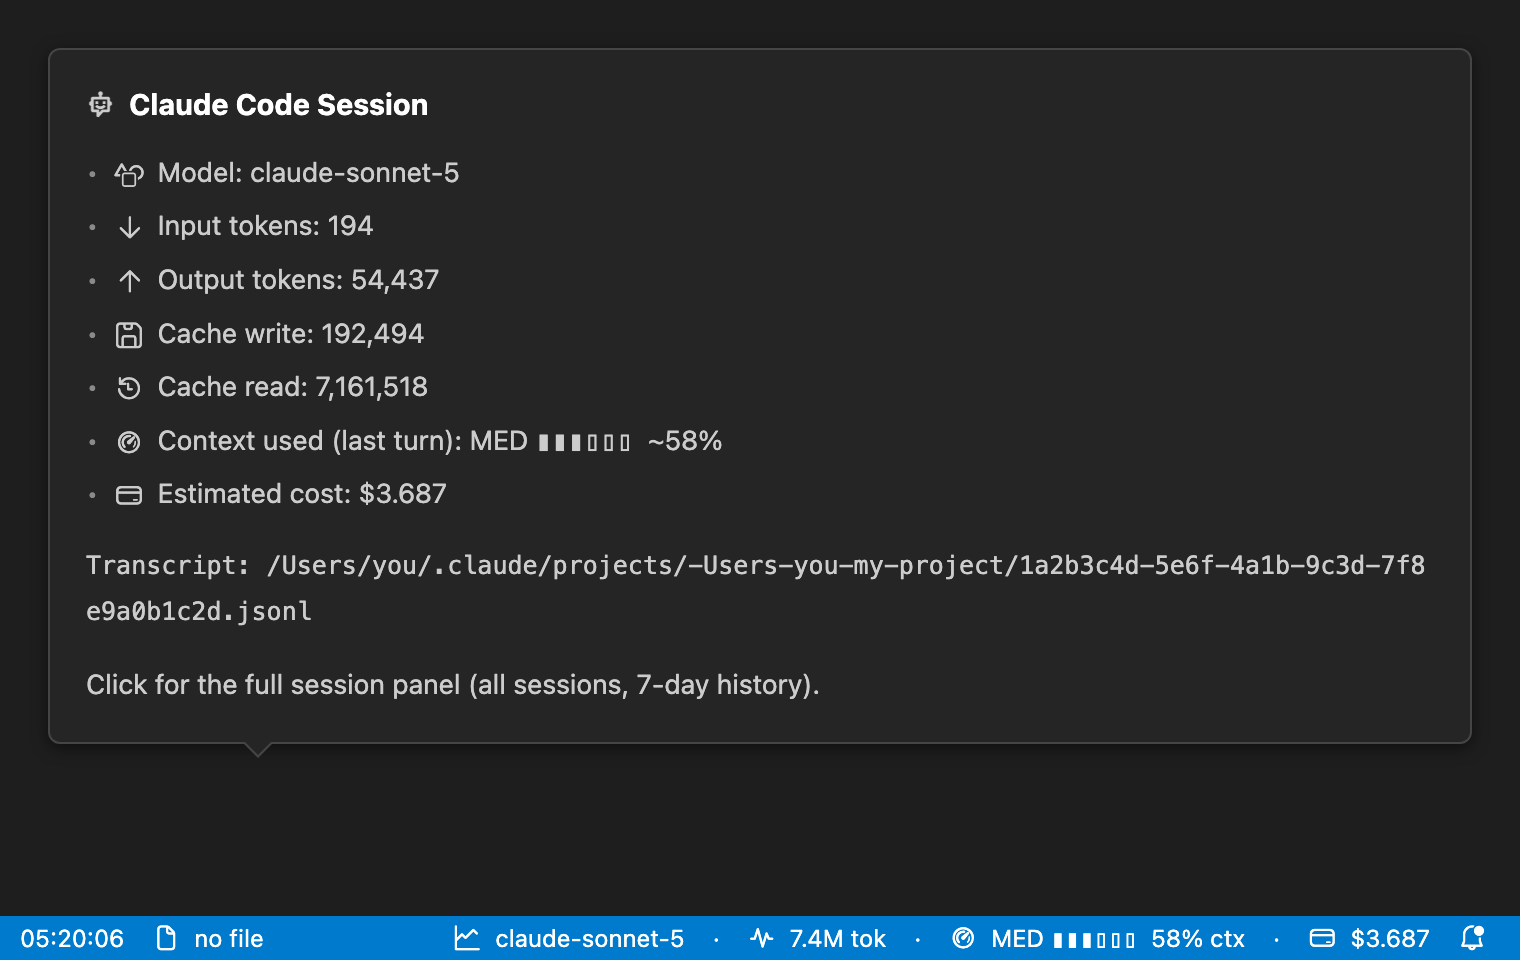
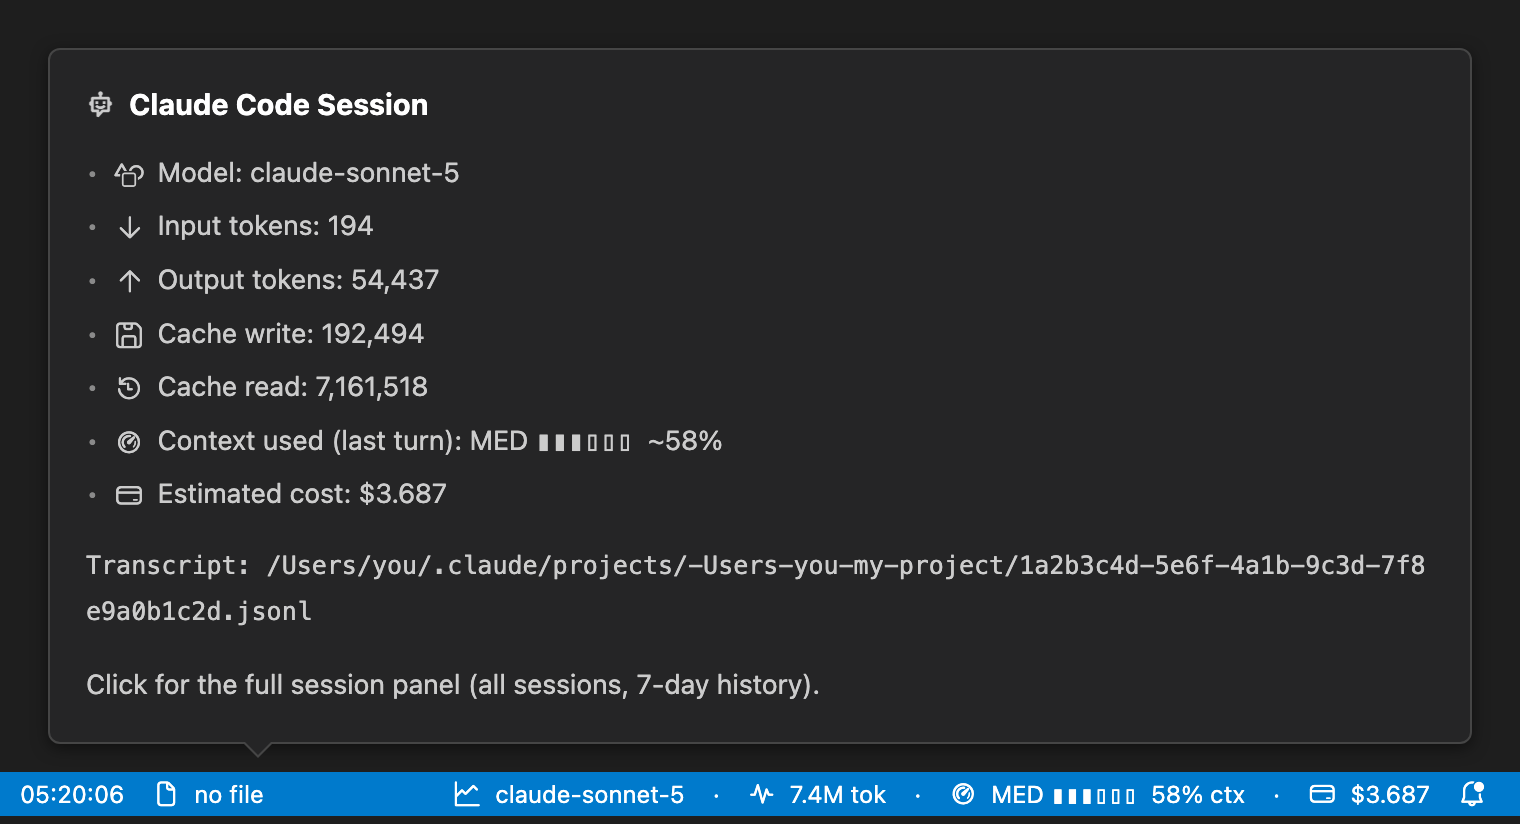
Fix floating tooltip mockup and add a Tooltip tab to the prototype
The hover-tooltip doc image had a large dead gap between the card and
the status bar, making it look disconnected from the segment it
describes. Anchors the bar directly under the card now. Also splits
prototypes/rule-ticks.html into two tabs (Status bar / Tooltip)
sharing one slider, so both previews can be iterated in one file.

diff --git a/prototypes/rule-ticks.html b/prototypes/rule-ticks.html
@@ -108,6 +108,67 @@
   .tier.critical { color: var(--crit); }
 
   footer { margin-top: 32px; font-size: 12.5px; color: var(--muted); }
+
+  .tabs { display: flex; gap: 6px; margin: 4px 0 20px; }
+  .tab-btn {
+    font: inherit;
+    font-size: 13px;
+    padding: 6px 14px;
+    border-radius: 6px;
+    border: 1px solid var(--line);
+    background: transparent;
+    color: var(--muted);
+    cursor: pointer;
+  }
+  .tab-btn.active { color: var(--ink); border-color: currentColor; background: rgba(127,127,127,0.1); }
+  .panel { display: none; }
+  .panel.active { display: block; }
+
+  .tooltip-stage { background: #1e1e1e; border-radius: 8px; padding: 20px 20px 0; overflow: hidden; }
+  .card {
+    background: #252526;
+    border: 1px solid #454545;
+    border-radius: 6px;
+    box-shadow: 0 2px 8px rgba(0,0,0,0.5);
+    padding: 14px 18px 16px;
+    font-size: 13.5px;
+    line-height: 1.85;
+    position: relative;
+    color: #cccccc;
+    font-family: -apple-system, BlinkMacSystemFont, "Segoe UI", Roboto, Helvetica, Arial, sans-serif;
+  }
+  .card .beak {
+    position: absolute; left: 96px; bottom: -8px; width: 0; height: 0;
+    border-left: 8px solid transparent; border-right: 8px solid transparent; border-top: 8px solid #454545;
+  }
+  .card .beak::after {
+    content: ""; position: absolute; left: -7px; top: -8.5px; width: 0; height: 0;
+    border-left: 7px solid transparent; border-right: 7px solid transparent; border-top: 7px solid #252526;
+  }
+  .card .hd { font-weight: 700; color: #fff; font-size: 14.5px; margin-bottom: 8px; }
+  .card ul { list-style: none; margin: 0; padding: 0; }
+  .card li { display: flex; align-items: flex-start; }
+  .card li:before { content: "\2022"; margin-right: 8px; color: #8a8a8a; }
+  .card .path { font-family: ui-monospace, SFMono-Regular, "SF Mono", Menlo, Consolas, monospace; font-size: 12.5px; color: #cccccc; word-break: break-all; margin: 10px 0 0; }
+  .card .foot { margin: 12px 0 0; color: #cccccc; }
+
+  .tooltip-bar {
+    margin-top: 14px;
+    background: #007ACC;
+    color: #FFFFFF;
+    font-family: -apple-system, BlinkMacSystemFont, "Segoe WPC", "Segoe UI", Ubuntu, sans-serif;
+    font-size: 12px;
+    line-height: 22px;
+    height: 22px;
+    display: flex;
+    align-items: center;
+    justify-content: space-between;
+    padding: 0 10px;
+    white-space: nowrap;
+  }
+  .tooltip-bar .left, .tooltip-bar .right { display: flex; align-items: center; }
+  .tooltip-bar .seg { display: flex; align-items: center; margin-right: 14px; }
+  .tooltip-bar .right .seg { margin-right: 0; margin-left: 14px; }
 </style>
 
 <div class="page">
@@ -118,9 +179,52 @@
     slider &mdash; nothing here is wired to the extension yet.
   </p>
 
-  <div class="barwrap">
-    <div class="vsbar" id="bar">
-      <span class="ic" id="icon">&#xeb08;</span>claude-sonnet-5 &middot; <span class="ic">&#xeb31;</span>2.3M tok &middot; <span class="ic">&#xeacd;</span><span id="tag">CALM </span><span id="fill">▮▮▮▯▯▯</span>&nbsp;&nbsp;<span id="pct">45</span>% ctx &middot; <span class="ic">&#xeac9;</span>$1.506
+  <div class="tabs">
+    <button class="tab-btn active" data-tab="bar">Status bar</button>
+    <button class="tab-btn" data-tab="tooltip">Tooltip</button>
+  </div>
+
+  <div class="panel active" id="panel-bar">
+    <div class="barwrap">
+      <div class="vsbar" id="bar">
+        <span class="ic" id="icon">&#xeb08;</span>claude-sonnet-5 &middot; <span class="ic">&#xeb31;</span>2.3M tok &middot; <span class="ic">&#xeacd;</span><span id="tag">CALM </span><span id="fill">▮▮▮▯▯▯</span>&nbsp;&nbsp;<span id="pct">45</span>% ctx &middot; <span class="ic">&#xeac9;</span>$1.506
+      </div>
+    </div>
+  </div>
+
+  <div class="panel" id="panel-tooltip">
+    <div class="tooltip-stage">
+      <div class="card">
+        <div class="beak"></div>
+        <div class="hd"><span class="ic" style="font-size:15px;">&#xeb08;</span>Claude Code Session</div>
+        <ul>
+          <li><span class="ic">&#xeb63;</span>Model: claude-sonnet-5</li>
+          <li><span class="ic">&#xea9a;</span>Input tokens: 194</li>
+          <li><span class="ic">&#xeaa1;</span>Output tokens: 54,437</li>
+          <li><span class="ic">&#xeb4b;</span>Cache write: 192,494</li>
+          <li><span class="ic">&#xea82;</span>Cache read: 7,161,518</li>
+          <li><span class="ic">&#xeacd;</span>Context used (last turn):&nbsp;<span id="tag-card">CALM </span><span id="fill-card">▮▮▮▯▯▯</span>&nbsp;&nbsp;~<span id="pct-card">45</span>%</li>
+          <li><span class="ic">&#xeac9;</span>Estimated cost: $3.687</li>
+        </ul>
+        <p class="path">Transcript: /Users/you/.claude/projects/-Users-you-my-project/1a2b3c4d-5e6f-4a1b-9c3d-7f8e9a0b1c2d.jsonl</p>
+        <p class="foot">Click for the full session panel (all sessions, 7-day history).</p>
+      </div>
+      <div class="tooltip-bar">
+        <div class="left">
+          <div class="seg">05:20:06</div>
+          <div class="seg"><span class="ic">&#xea7b;</span>no file</div>
+        </div>
+        <div class="right">
+          <div class="seg"><span class="ic" id="icon-mini">&#xeb08;</span>claude-sonnet-5</div>
+          <div class="seg">&middot;</div>
+          <div class="seg"><span class="ic">&#xeb31;</span>7.4M tok</div>
+          <div class="seg">&middot;</div>
+          <div class="seg"><span class="ic">&#xeacd;</span><span id="tag-mini">CALM </span><span id="fill-mini">▮▮▮▯▯▯</span>&nbsp;&nbsp;<span id="pct-mini">45</span>% ctx</div>
+          <div class="seg">&middot;</div>
+          <div class="seg"><span class="ic">&#xeac9;</span>$3.687</div>
+          <div class="seg"><span class="ic">&#xeb9a;</span></div>
+        </div>
+      </div>
     </div>
   </div>
 
@@ -153,7 +257,7 @@
     </div>
   </div>
 
-  <footer>&ldquo;medium&rdquo; and the <code>$(graph-line)</code> icon are placeholders for the new tier &mdash; rename or swap the icon if something else reads better. The <code>CALM</code>/<code>MED</code>/<code>WARN</code>/<code>CRIT</code> tag is new too &mdash; drop it if the icon + bar already read clearly enough on their own.</footer>
+  <footer>&ldquo;medium&rdquo; and the <code>$(graph-line)</code> icon are placeholders for the new tier &mdash; rename or swap the icon if something else reads better. The <code>CALM</code>/<code>MED</code>/<code>WARN</code>/<code>CRIT</code> tag is new too &mdash; drop it if the icon + bar already read clearly enough on their own. Switch to the <b>Tooltip</b> tab above to see the same state in the hover card.</footer>
 </div>
 
 <script>
@@ -201,4 +305,41 @@
 
   slider.addEventListener('input', render);
   render();
+
+  const tagCard = document.getElementById('tag-card');
+  const fillCard = document.getElementById('fill-card');
+  const pctCard = document.getElementById('pct-card');
+  const iconMini = document.getElementById('icon-mini');
+  const tagMini = document.getElementById('tag-mini');
+  const fillMini = document.getElementById('fill-mini');
+  const pctMini = document.getElementById('pct-mini');
+
+  function renderTooltip() {
+    const pct = Number(slider.value);
+    const tier = tierFor(pct);
+    tagCard.textContent = TAGS[tier] + ' ';
+    fillCard.textContent = formatBar(pct);
+    pctCard.textContent = String(pct);
+    iconMini.textContent = ICONS[tier];
+    tagMini.textContent = TAGS[tier] + ' ';
+    fillMini.textContent = formatBar(pct);
+    pctMini.textContent = String(pct);
+  }
+
+  slider.addEventListener('input', renderTooltip);
+  renderTooltip();
+
+  const tabBtns = document.querySelectorAll('.tab-btn');
+  const panels = {
+    bar: document.getElementById('panel-bar'),
+    tooltip: document.getElementById('panel-tooltip'),
+  };
+  tabBtns.forEach((btn) => {
+    btn.addEventListener('click', () => {
+      tabBtns.forEach((b) => b.classList.toggle('active', b === btn));
+      Object.keys(panels).forEach((key) => {
+        panels[key].classList.toggle('active', key === btn.dataset.tab);
+      });
+    });
+  });
 </script>
